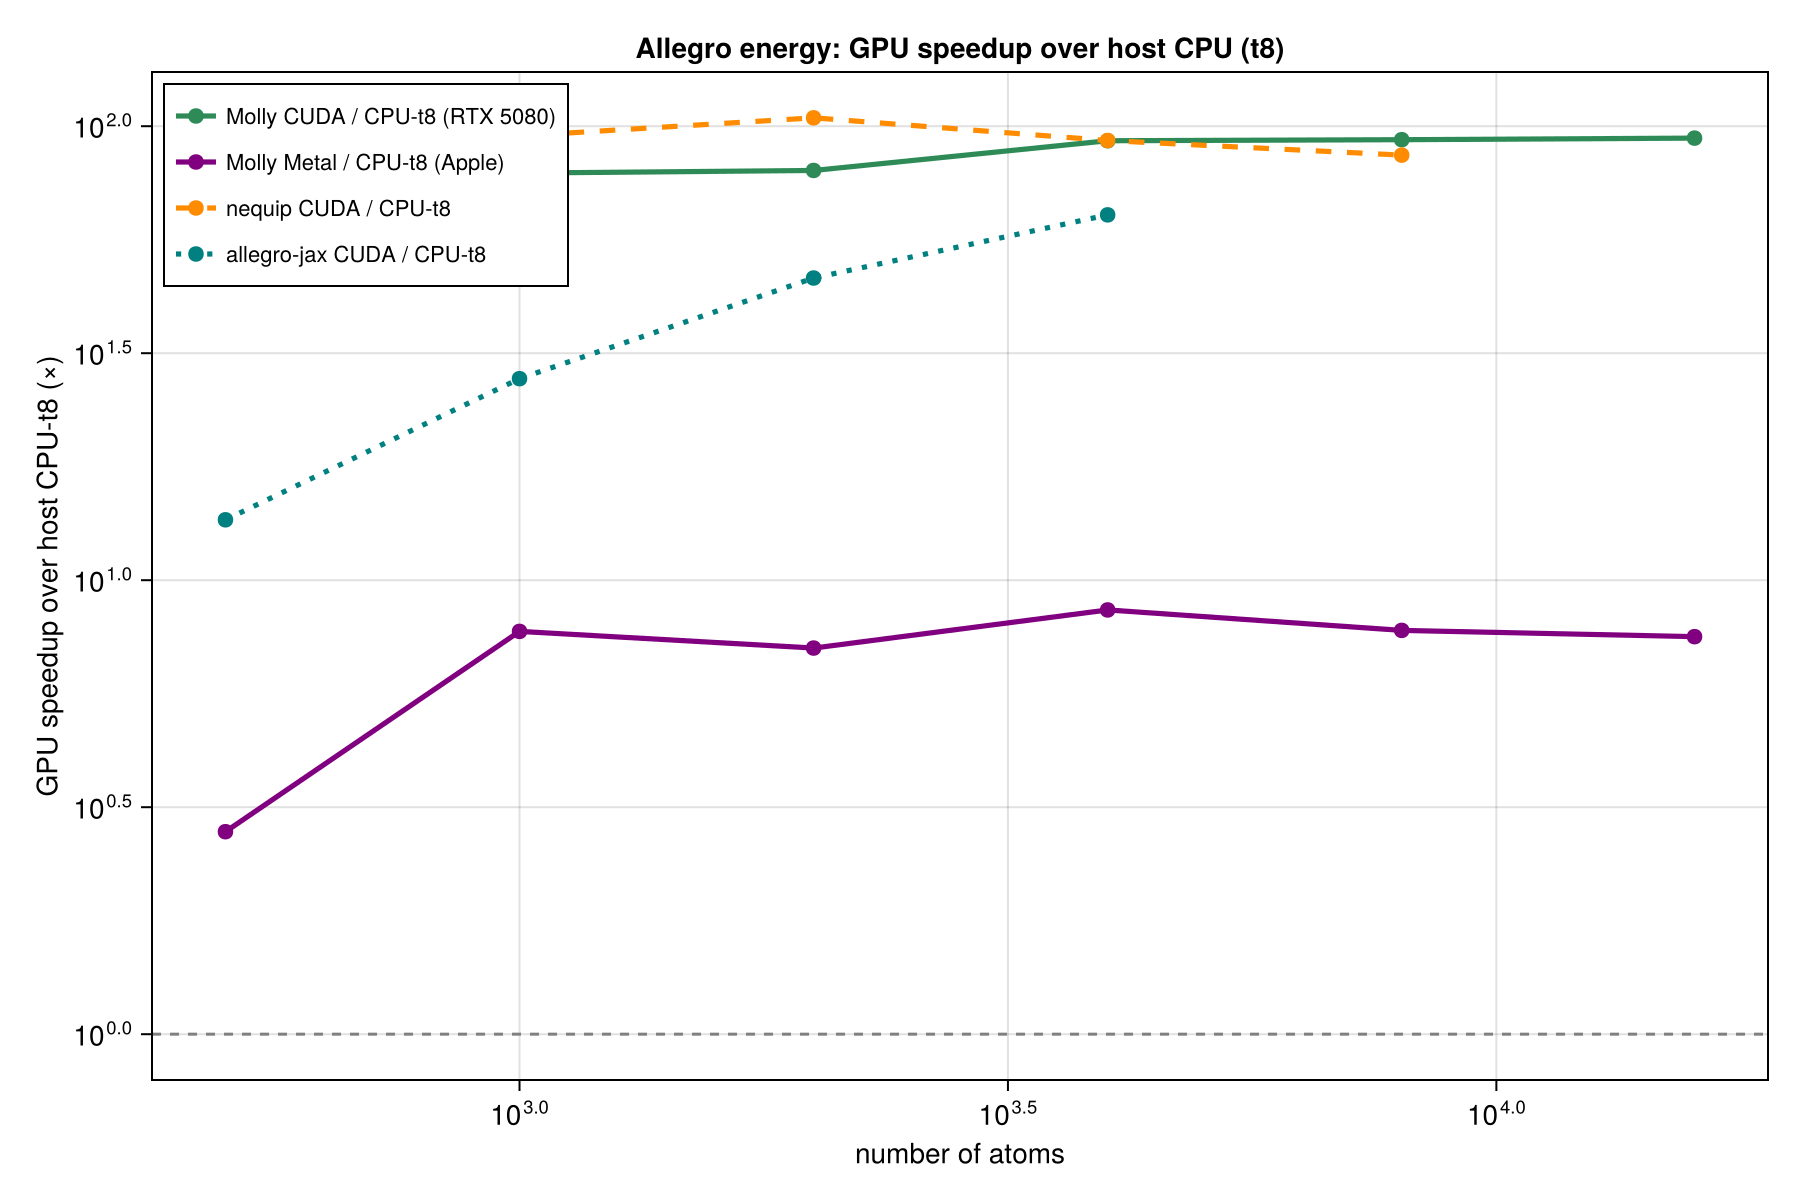
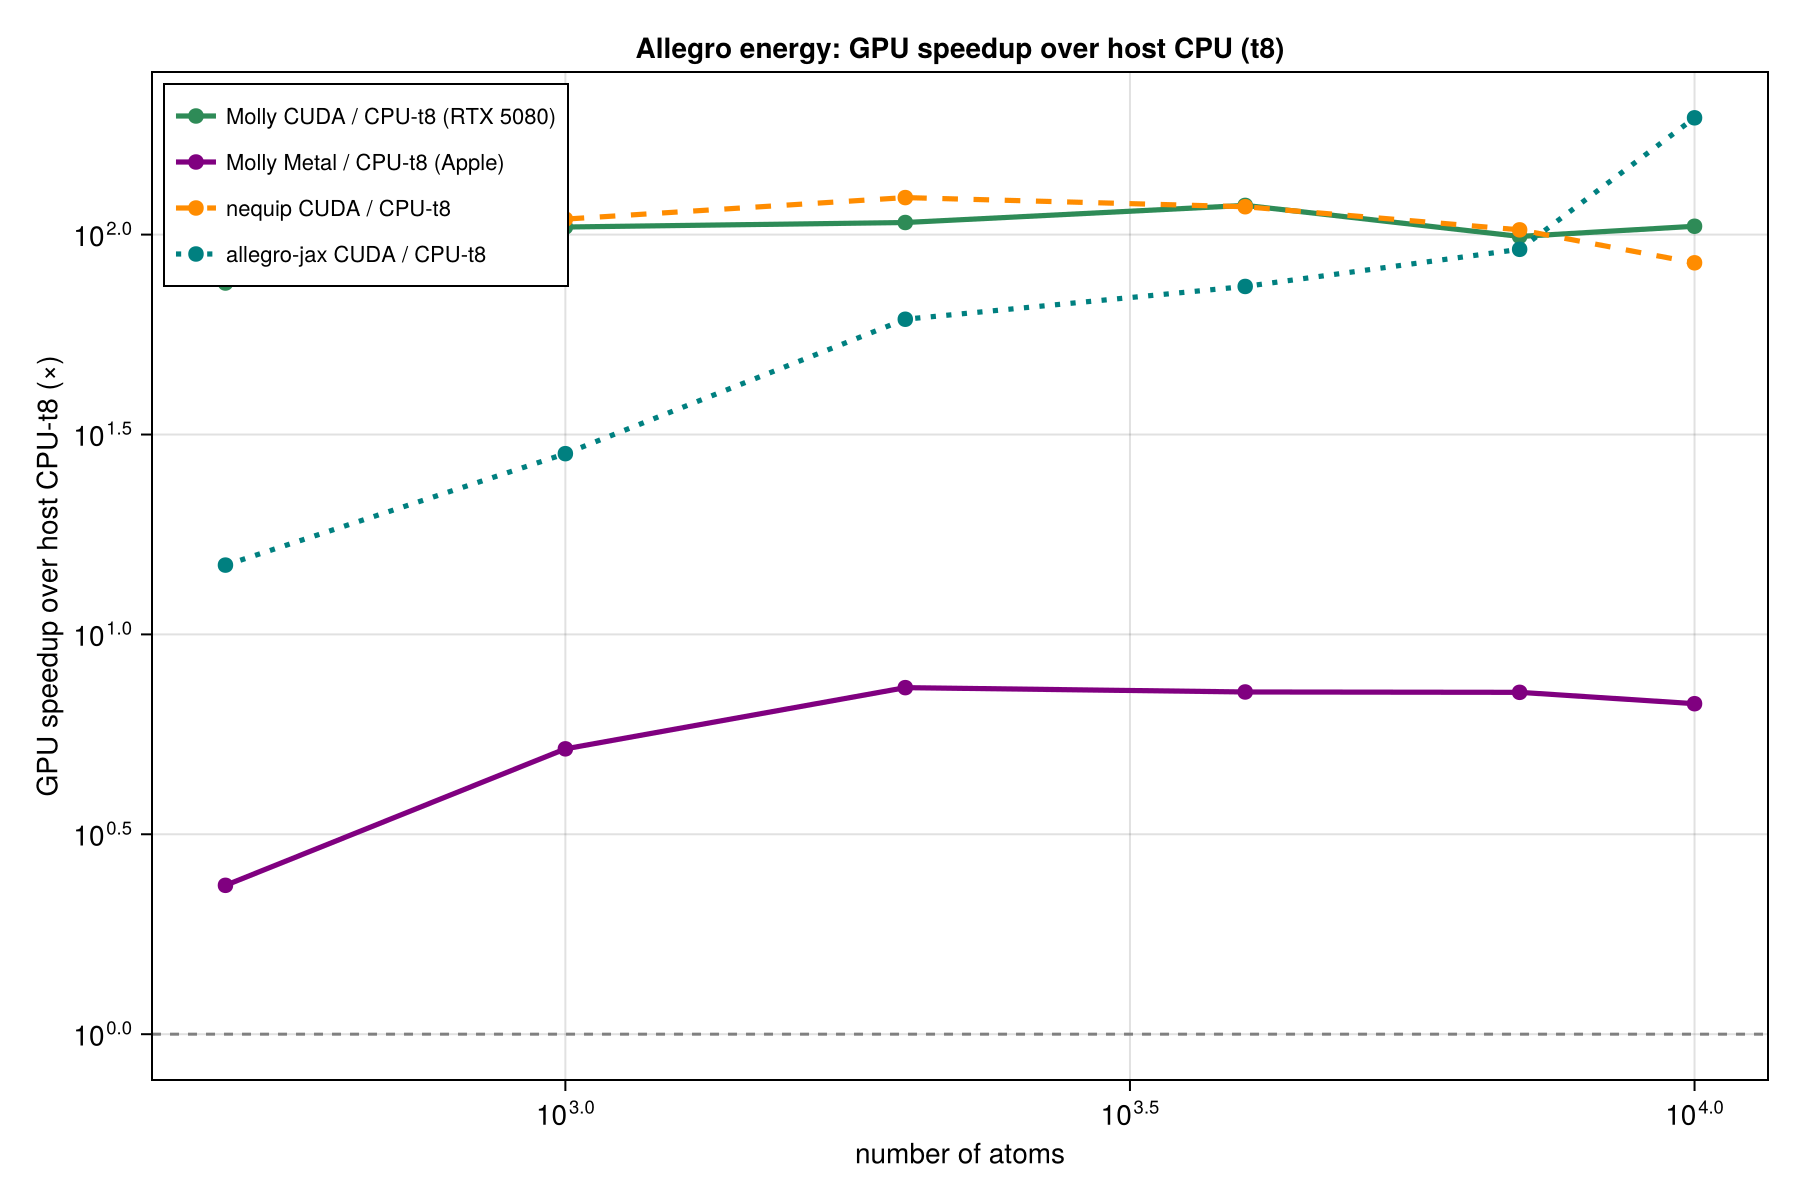
Allegro benchmarks: all plot lines span 6 sizes (500-10000, the package's CUDA ceiling)

diff --git a/benchmark/allegro_benchmarks.md b/benchmark/allegro_benchmarks.md
@@ -17,7 +17,8 @@ a 16 GB card, where the package's autograd forces run out of memory.
 backward), timed separately, best-of-repeats after a warm-up. The neighbour list is **precomputed**
 (it is reused across MD steps; every implementation here passes precomputed edges, so the comparison
 is of the model evaluation, not the neighbour search). **Systems:** random H/C/N/O in a cubic box at
-density 0.09 atoms/Å³, sizes 500→15,954 atoms (15,954 = the 6mrr test system). `Float64` on CPU and
+density 0.09 atoms/Å³. The head-to-head spans 500→10,000 atoms (the largest the package fits on the
+16 GB card); Molly itself is validated out to the full 15,954-atom 6mrr system. `Float64` on CPU and
 CUDA; `Float32` on Metal.
 
 ---
@@ -59,42 +60,45 @@ backend, linestyle encodes implementation (Molly solid, nequip dashed, allegro-j
 
 All timings are one energy + forces evaluation in milliseconds, best of repeats, with the neighbour
 list precomputed (it is amortised across many MD steps; rebuilding it every step would penalise every
-implementation equally — all three pass precomputed edges). `OOM` = the package's autograd forces
-exceed the 16 GB card; `—` = not run.
+implementation equally — all three pass precomputed edges). The range tops out at 10,000 atoms because
+that is the largest system the package's autograd forces fit in the 16 GB card — above ~10k nequip
+OOMs, while **Molly's analytic backward keeps going to the full 15,954-atom 6mrr system** (CUDA: 0.25 s;
+Metal: 1.1 s; CPU-t8: 18 s). `—` = not run (allegro-jax single-thread CPU past 4000 atoms is minutes
+per point).
 
 **GPU** (`Float64` on CUDA, `Float32` on Metal):
 
 | atoms | Molly CUDA | nequip CUDA | allegro-jax CUDA | Molly Metal |
 | ---: | ---: | ---: | ---: | ---: |
-| 500   | **10**  | 18   | 107  | 27   |
-| 1000  | **16**  | 19   | 216  | 45   |
-| 2000  | **29**  | 30   | 462  | 126  |
-| 4000  | **53**  | 66   | 1131 | 252  |
-| 8000  | **130** | 144  | 2719 | 517  |
-| 15954 | **252** | OOM  | 7226 | 1073 |
+| 500   | **10**  | 18   | 103  | 23  |
+| 1000  | **16**  | 19   | 220  | 45  |
+| 2000  | **28**  | 35   | 462  | 125 |
+| 4000  | **59**  | 69   | 1130 | 259 |
+| 7000  | **111** | 122  | 2726 | 449 |
+| 10000 | **147** | 170  | 3468 | 646 |
 
 **CPU** on the RTX 5080 host (12-core), `Float64`, single thread (t1) and 8 threads (t8, run with
 `julia --gcthreads=8` so garbage collection is parallel — see below):
 
 | atoms | Molly t1 | nequip t1 | jax t1 | Molly t8 | nequip t8 | jax t8 |
 | ---: | ---: | ---: | ---: | ---: | ---: | ---: |
-| 500   | **746**   | 1456  | 1691   | **531**  | 1279  | 1416  |
-| 1000  | **1666**  | 3199  | 6780   | **1188** | 1940  | 6119  |
-| 2000  | **3515**  | 6901  | 28020  | **2185** | 3877  | 21474 |
-| 4000  | **7477**  | 15850 | 126854 | **4333** | 6284  | 72152 |
-| 8000  | **18457** | 34539 | —      | **8883** | 11813 | —     |
-| 15954 | —         | 72939 | —      | **17858**| 21505 | —     |
+| 500   | **777**   | 1485  | 1691   | **1014** | 1474  | 1564   |
+| 1000  | **1742**  | 3235  | 6780   | **1443** | 2335  | 6406   |
+| 2000  | **3581**  | 6989  | 28020  | **2338** | 4614  | 24787  |
+| 4000  | **7995**  | 16388 | 126854 | **4702** | 7653  | 91132  |
+| 7000  | **15546** | 29753 | —      | **8879** | 10577 | 228057 |
+| 10000 | **23435** | 45764 | —      | **12626**| 14969 | 962382 |
 
 Reading it (**bold** = fastest in that row/group):
-- **CUDA — Molly wins at every size.** It is 1.1–1.9× faster than the real package, and because the
-  analytic reverse pass has a far smaller memory footprint than the package's autograd backward,
-  **Molly is the only CUDA implementation that reaches the full 6mrr system** (15,954 atoms, 0.25 s) —
-  the package OOMs there. allegro-jax is 5–30× slower than Molly on CUDA.
+- **CUDA — Molly wins at every size.** It is 1.1–1.9× faster than the real package across the whole
+  range, and because the analytic reverse pass has a far smaller memory footprint than the package's
+  autograd backward, **only Molly scales past ~10k atoms to the full 6mrr system** (15,954 atoms, 0.25 s)
+  — the package OOMs there. allegro-jax is 5–30× slower than Molly on CUDA.
 - **Metal — uncontested.** Neither the package nor allegro-jax has a `Float64` Apple-GPU path, so Molly
   is the only Allegro that runs on Apple Silicon (16k in 1.1 s).
 - **CPU single thread (t1) — Molly wins at every size**, ~2× faster than the package and 2–16× faster
   than allegro-jax.
-- **CPU 8 threads (t8) — Molly wins at every size too**, 1.2–2.4× faster than the package (run with
+- **CPU 8 threads (t8) — Molly wins at every size too**, 1.2–2.0× faster than the package (run with
   `--gcthreads=8` so the per-evaluation GC is parallel). A reusable workspace that removes the per-call
   allocation entirely is the next optimisation and would widen the lead further.
 
